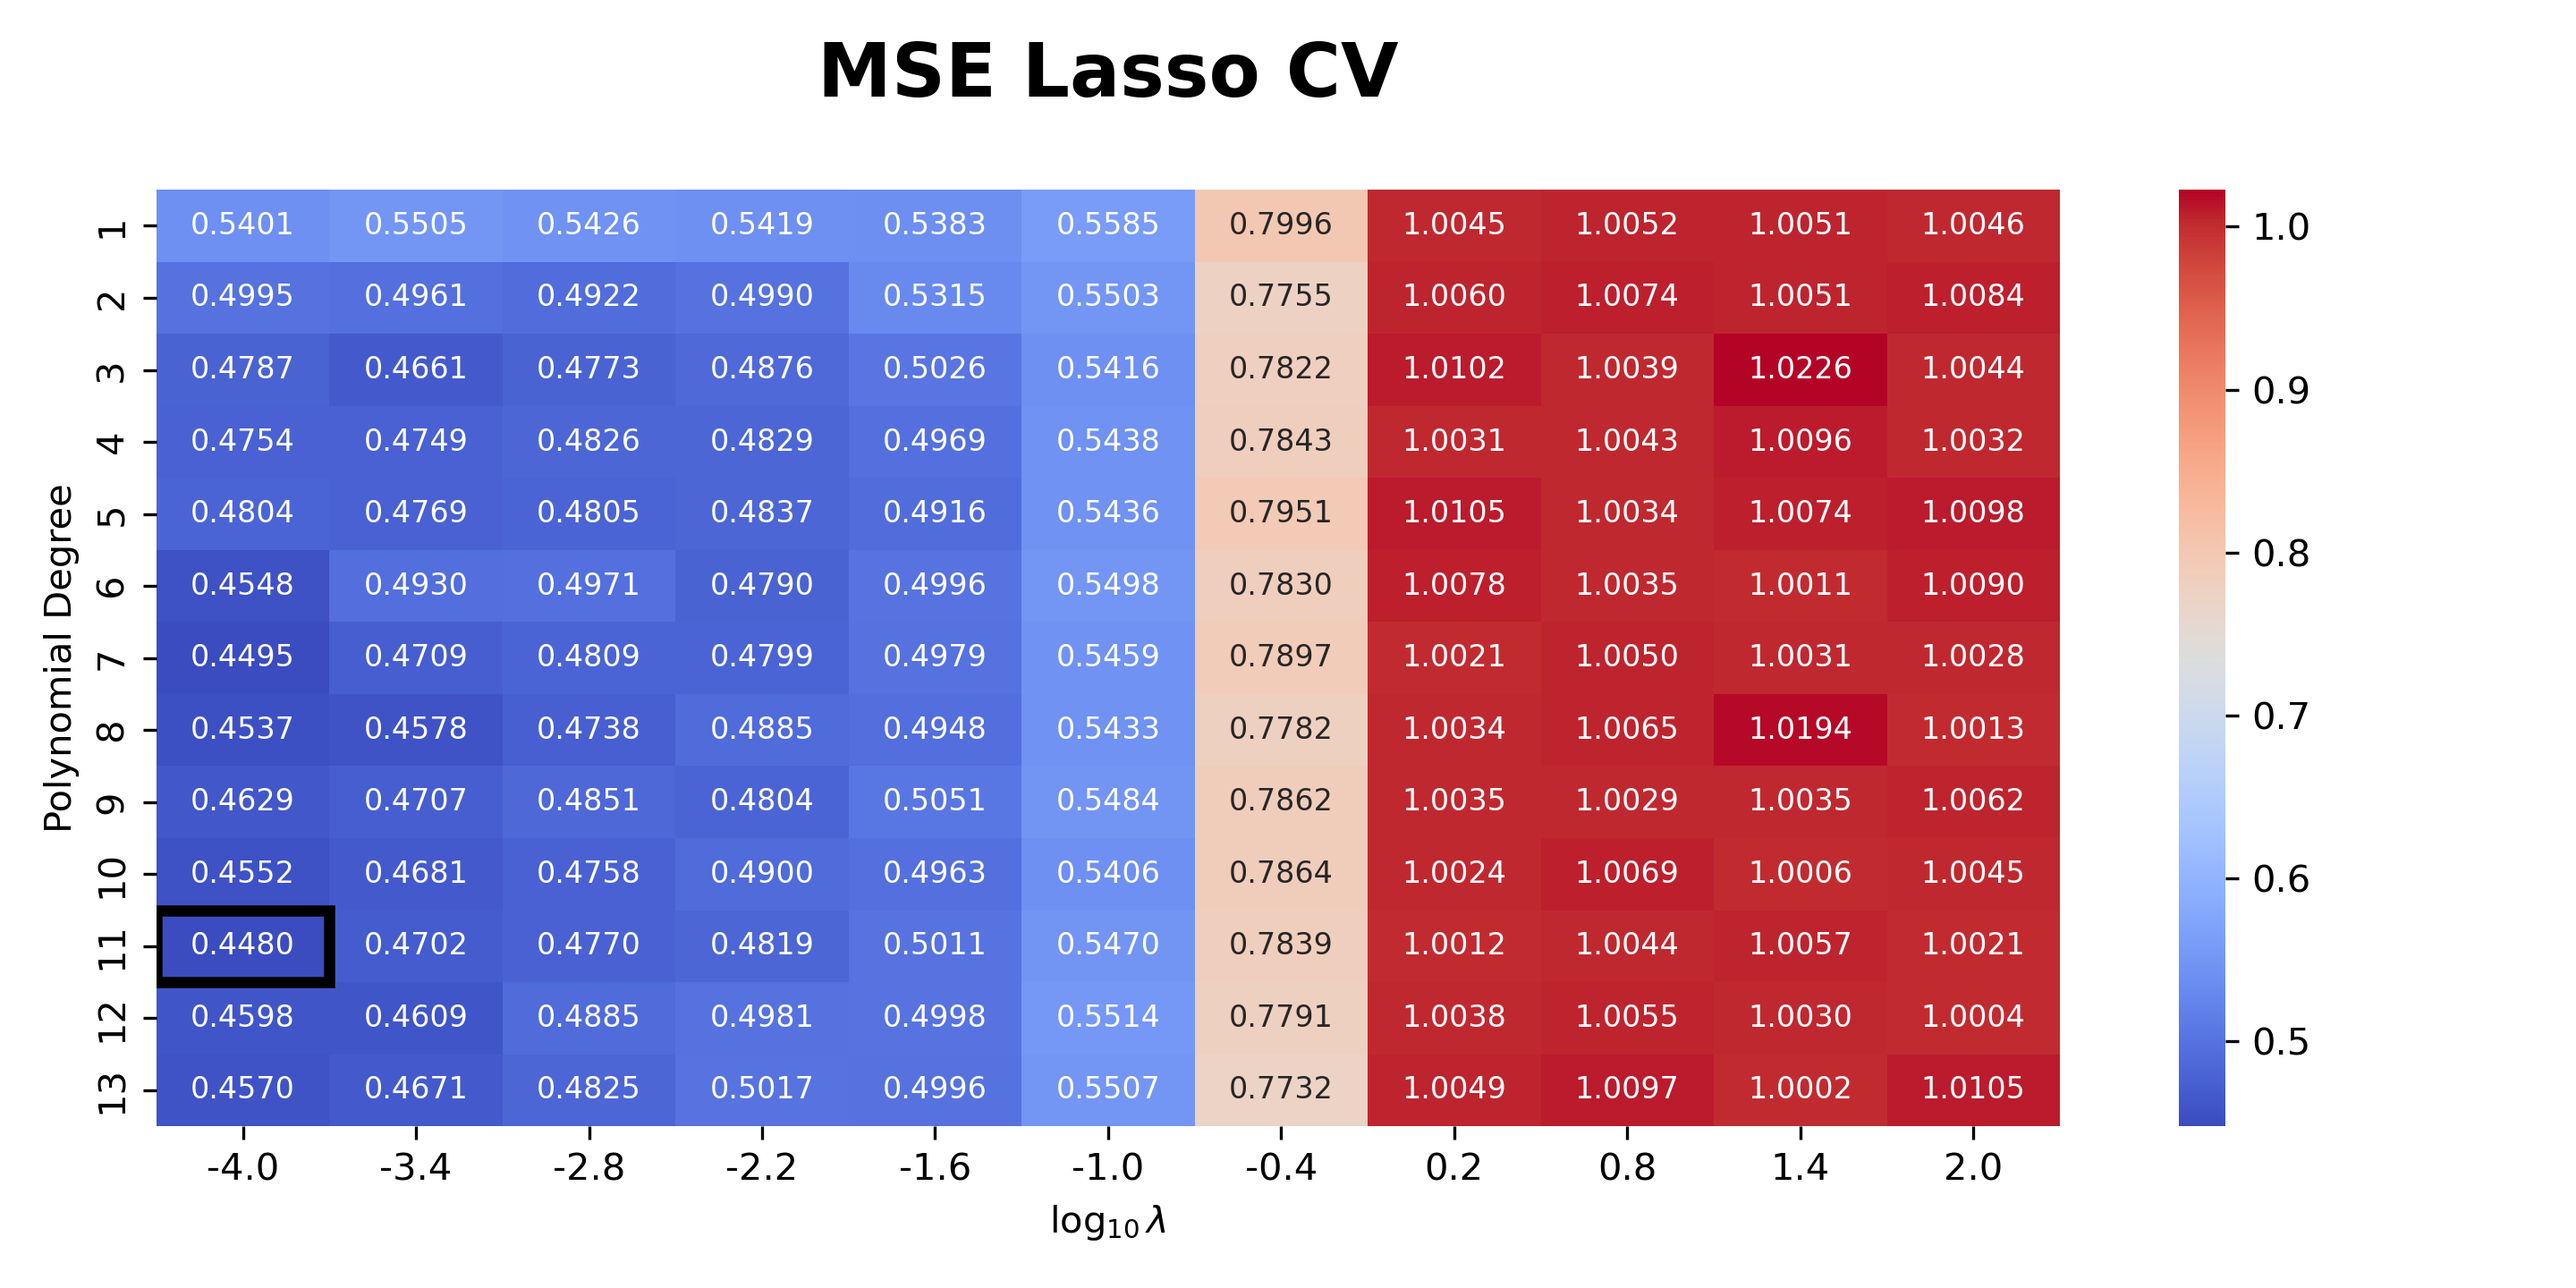
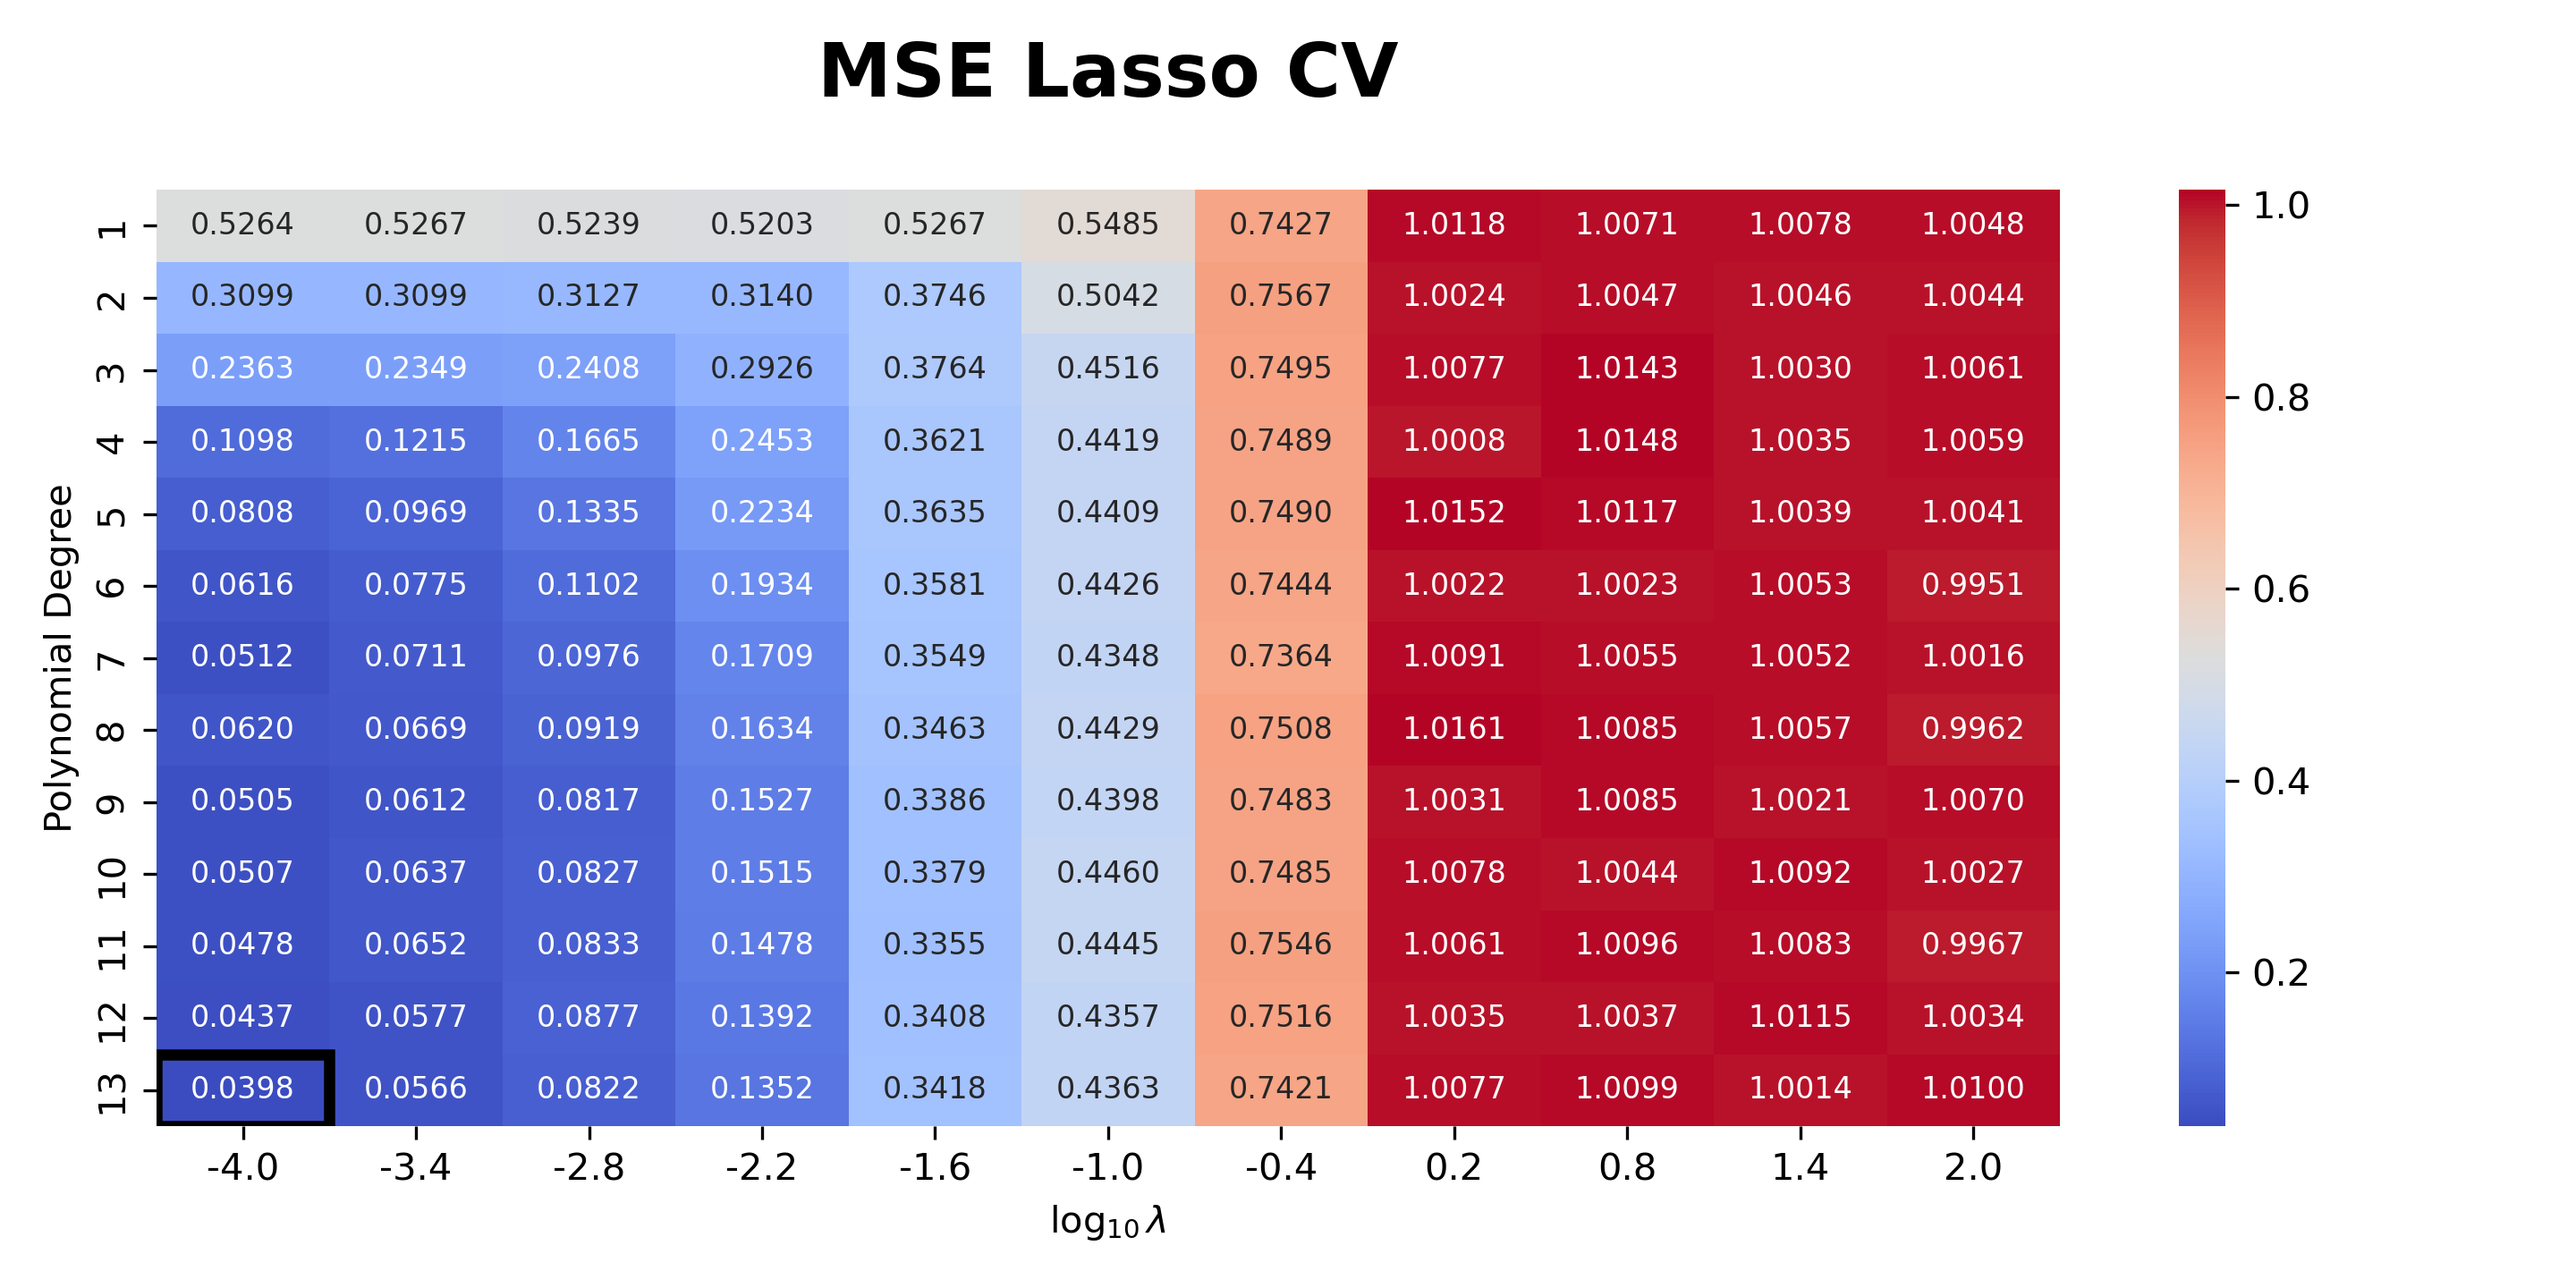
Fixed choosing of terrain points

diff --git a/Project1/src_final/Data.py b/Project1/src_final/Data.py
@@ -164,19 +164,12 @@ class TerrainData(Data):
         showPlots: bool = True,
         figsPath: Path = None,
     ) -> None:
-        """
+        """Initialize the data from terrain.
 
-        Parameters:
-        -----------
-        terrainData: (numpy.Ndarray)
-            Original dataset
-
-        numPoints: (int)
-            Number of points to generate.
-
-        maxDim: (int)
-            Maximal polynomial dimension
-
+        inputs:
+            terrainData (numpy.Ndarray): Original dataset
+            numPoints (int): Number of points to generate.
+            maxDim (int): Maximal polynomial dimension
         """
         self.terrainData = np.asarray(imread(terrainfile))
         self.N = numPoints
@@ -207,9 +200,6 @@ class TerrainData(Data):
 
         width, length = self.terrainData.shape
 
-        y_len = width // N
-        x_len = length // N
-
         x_ = np.sort(np.linspace(0, 1, N + 1))
         y_ = np.sort(np.linspace(0, 1, N + 1))
 
@@ -217,7 +207,7 @@ class TerrainData(Data):
         x = self.x_raw.flatten().reshape(-1, 1)
         y = self.y_raw.flatten().reshape(-1, 1)
 
-        self.z_raw = self.terrainData[::y_len, ::x_len]
+        self.z_raw = self.terrainData[: 2 * N + 1 : 2, : 2 * N + 1 : 2]
         self.scaled_z = (self.z_raw - np.mean(self.z_raw)) / np.std(self.z_raw)
         t = self.scaled_z.flatten().reshape(-1, 1)
 

diff --git a/Project1/src_final/TerrainMain.py b/Project1/src_final/TerrainMain.py
@@ -20,7 +20,7 @@ import sklearn.linear_model as sklm
 np.random.seed(32019)
 maxDim = 13
 lmbds = np.logspace(-7, 3, 11)
-figsPath = Path(__file__).parent.parent / "figures" / "Terrain"
+figsPath = Path(__file__).parent.parent / "figures" / "TerrainCompare"
 terrainfile = figsPath.parent.parent / "DataFiles" / "SRTM_data_Norway_1.tif"
 
 
@@ -41,9 +41,8 @@ def Surface():
 # OLS
 def OLSAnalysis() -> None:
     "Run all the plots for Ordinary Least Squares"
-    OLSmaxDim = 25
     OLS_train_test(
-        data, savePlots=True, showPlots=False, figsPath=figsPath, maxDim=OLSmaxDim
+        data, savePlots=True, showPlots=False, figsPath=figsPath, maxDim=maxDim
     )
     # BVData = FrankeData(
     #     20, 0.2, maxDim=25, savePlots=True, showPlots=False, figsPath=figsPath
@@ -57,11 +56,11 @@ def OLSAnalysis() -> None:
     #     title="Few points Bias Variance Tradeoff",
     # )
     plot_Bias_VS_Variance(
-        data, maxDim=OLSmaxDim, savePlots=True, showPlots=False, figsPath=figsPath
+        data, maxDim=maxDim, savePlots=True, showPlots=False, figsPath=figsPath
     )
     bootstrap_vs_cross_val(
         data,
-        maxDim=OLSmaxDim,
+        maxDim=maxDim,
         savePlots=True,
         showPlots=False,
         figsPath=figsPath,
